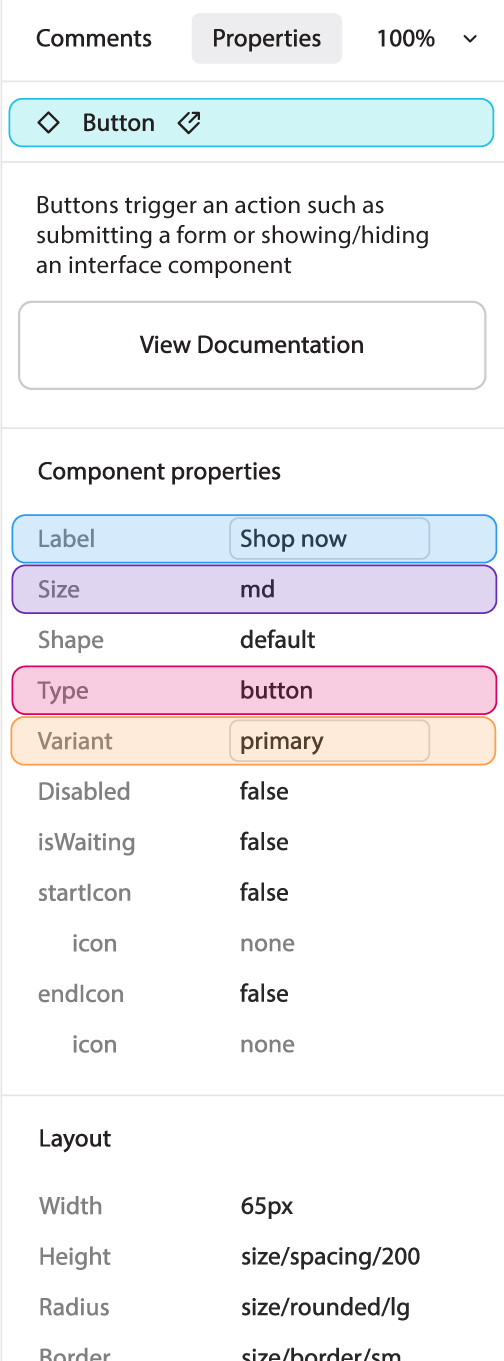
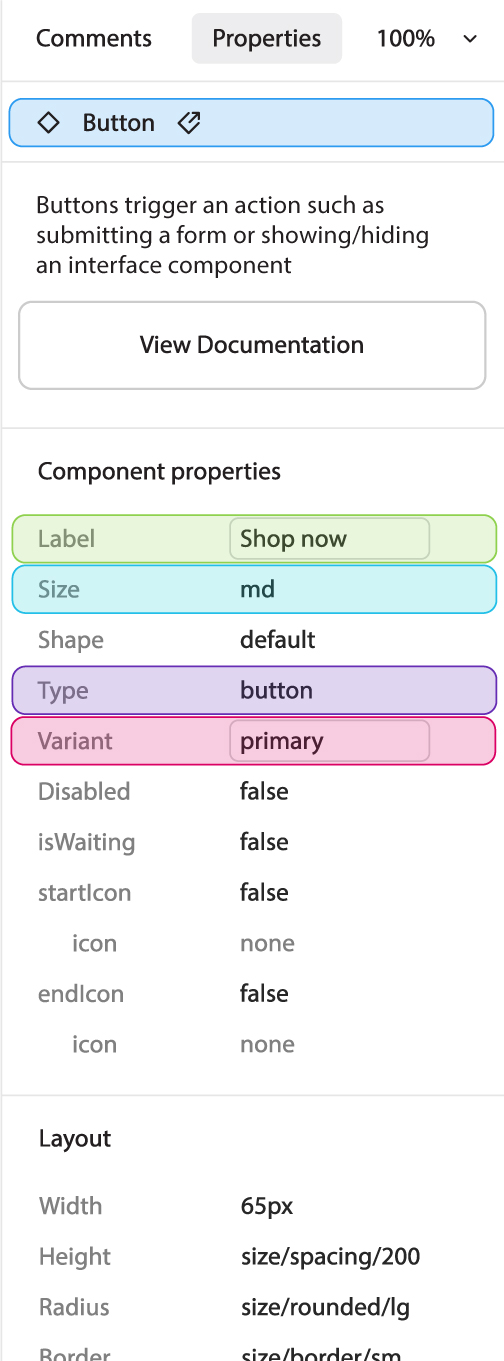
chore(web-dev): figma to code steps update color of properties to match updated images

Changed region(s): [[0.0, 0.3703, 1.0, 0.4629], [0.0, 0.4938, 1.0, 0.5863]]

diff --git a/portfolio-pages/web-design/web-design-portfolio-figma-to-code.html b/portfolio-pages/web-design/web-design-portfolio-figma-to-code.html
@@ -2149,9 +2149,10 @@
                 <!-- ************************************* -->
                 <div class="lg-w-4/12">
                   <h3 class="fg-indigo mb-block-none">Button</h3>
-                  <h4 class="px-100 mt-block-50 mb-block-none">variant: &lsquo;primary&rsquo;</h4>
-                  <h4 class="px-100 mt-block-50 mb-block-none">size: &lsquo;md&rsquo;</h4>
-                  <h4 class="px-100 mt-block-50 mb-block-none">type: &lsquo;button&rsquo;</h4>
+                  <h4 class="fg-green px-100 mt-block-50 mb-block-none">label: &lsquo;Shop now&rsquo;</h4>
+                  <h4 class="fg-aqua px-100 mt-block-50 mb-block-none">size: &lsquo;md&rsquo;</h4>
+                  <h4 class="fg-purple px-100 mt-block-50 mb-block-none">type: &lsquo;button&rsquo;</h4>
+                  <h4 class="fg-magenta px-100 mt-block-50 mb-block-none">variant: &lsquo;primary&rsquo;</h4>
                 </div>
               </div>
 
